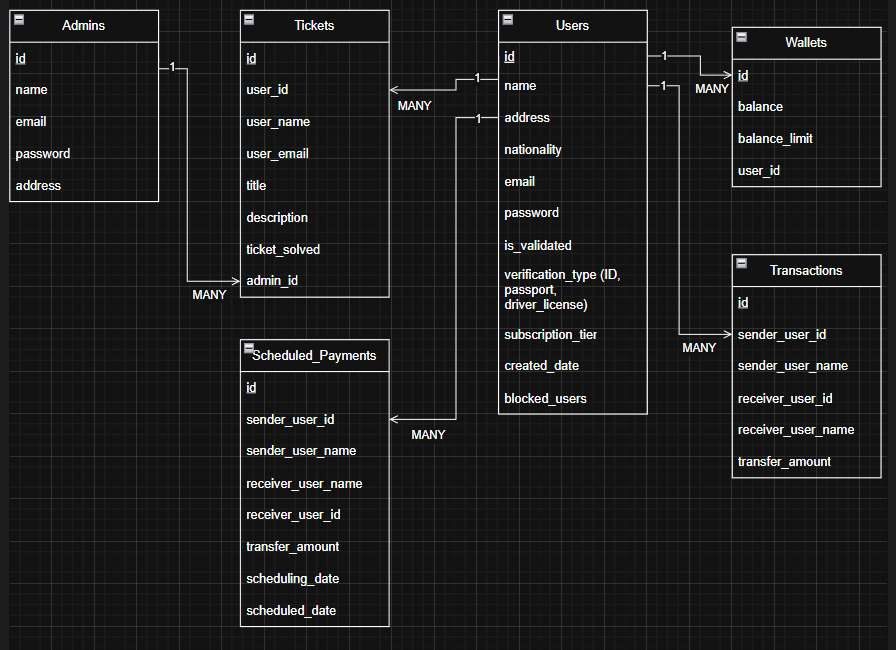
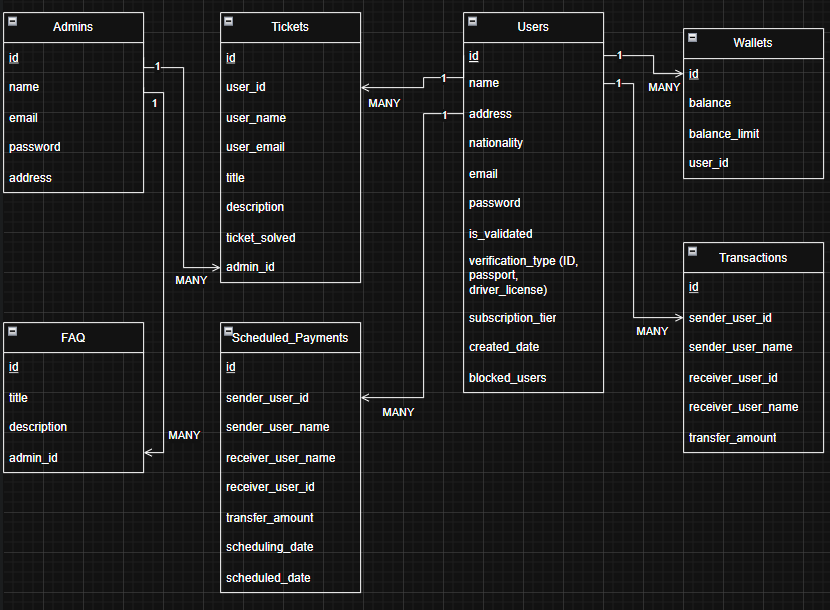
Fixed some fields with the README file

diff --git a/README.md b/README.md
@@ -2,59 +2,19 @@
 
 This project is about a Digital Wallet which allow users to sign up to the platform and use it transfer money from 1 account to another.
 
-In the following Database Diagram, we will see all the tables of this website and explain their connections:
+- Component Diagram:
+
+<!-- <img src=""></img> -->
+
+- ER Diagram:
 
 <img src="Assets/Database.png"></img>
 
-First, we have the "Users" table which stores the information needed for the user. The user only needs to fill out these fields at first and the rest will be given a default value upon creation:
 
-- Name
-- Address
-- Nationality
-- Email
-- Password
-
-The other fields will be given the following attributes by default:
-
-- is_validated = False
-- verification_type = NULL
-- subscription_tier = 1
-- created_date = System Date
-- blocked_users = NULL
+- Documented APIs:
 
 
 
-For the "Wallets" table, a new wallet will be created upon user sign up, but the user also have the privilege to create more than 1 wallet. The default values of the wallet created is as follows:
+- Public IP Address:
 
-- id = Auto Incremented
-- balance = 0.00
-- balance_limit = 20 (Based on subscription tier)
-- user_id (will be taken from the user that it is associated to)
-
-
-For the "Transactions" table, it will only create records when a transaction is commited between 2 users and it will contain the following information:
-
-- sender_user_id    | ID and name of the Sender
-- sender_user_name  |
-- receiver_user_id  | ID and name of the receiver
-- receiver_user_name|
-- transfer_amount   | Amount transfered
-
-
-For the "Scheduled_Payments" table, it will take the same attributes of the "Transaction" table but it will also take the current date that the transaction was issued in and the date that the transaction is scheduled to be sent on.
-
-- scheduling_date: System Date
-- scheduled_date: Date 
-
-
-For the "Tickets" table, the users will be able to submit a ticket for the Admins to view in case they face any issue in accessing any part of the website. The information that the user will need to fill out is the following:
-
-- user_email (it will be filled out if the user is logged into his/her account)
-- title 
-- description
-
-The remaining of the data will be filled out from the information of the session.
-
-
-
-Lastly for the "Admins" table, they are responsible to respond to the tickets issued by users and keep track of users data while also keeping the FAQ section up to date for the users. Admins can only be registered through direct adding to the database.
+52.47.74.242
